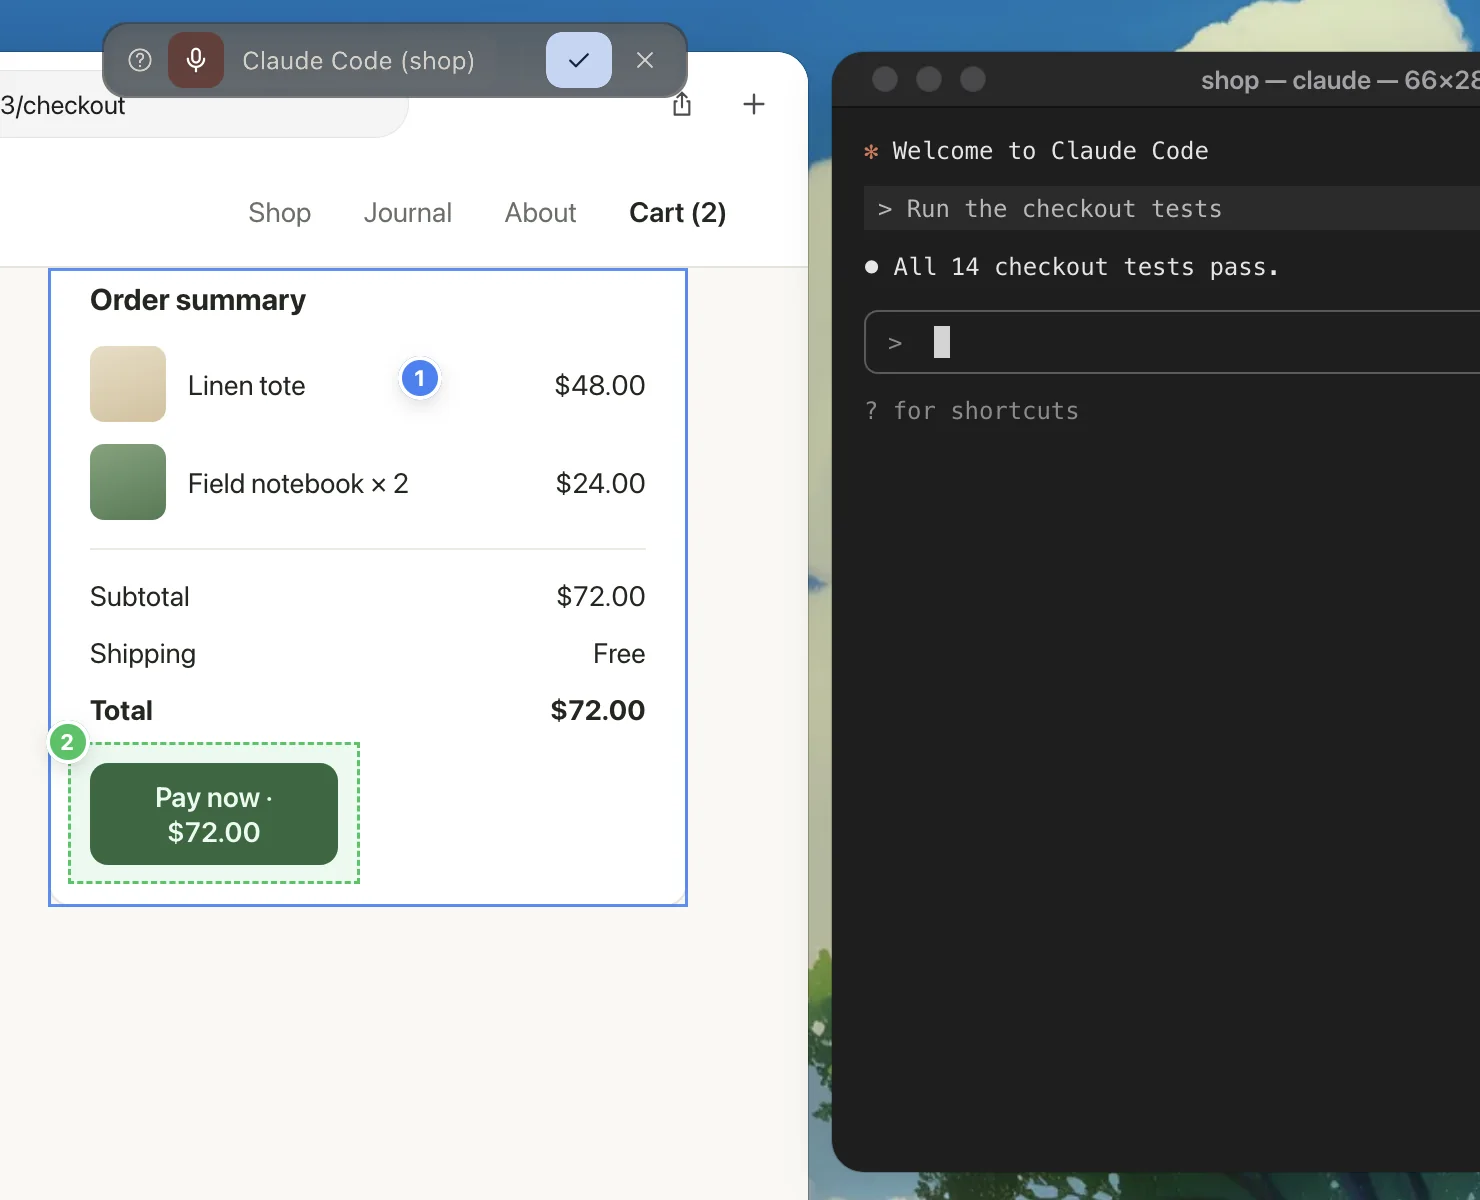
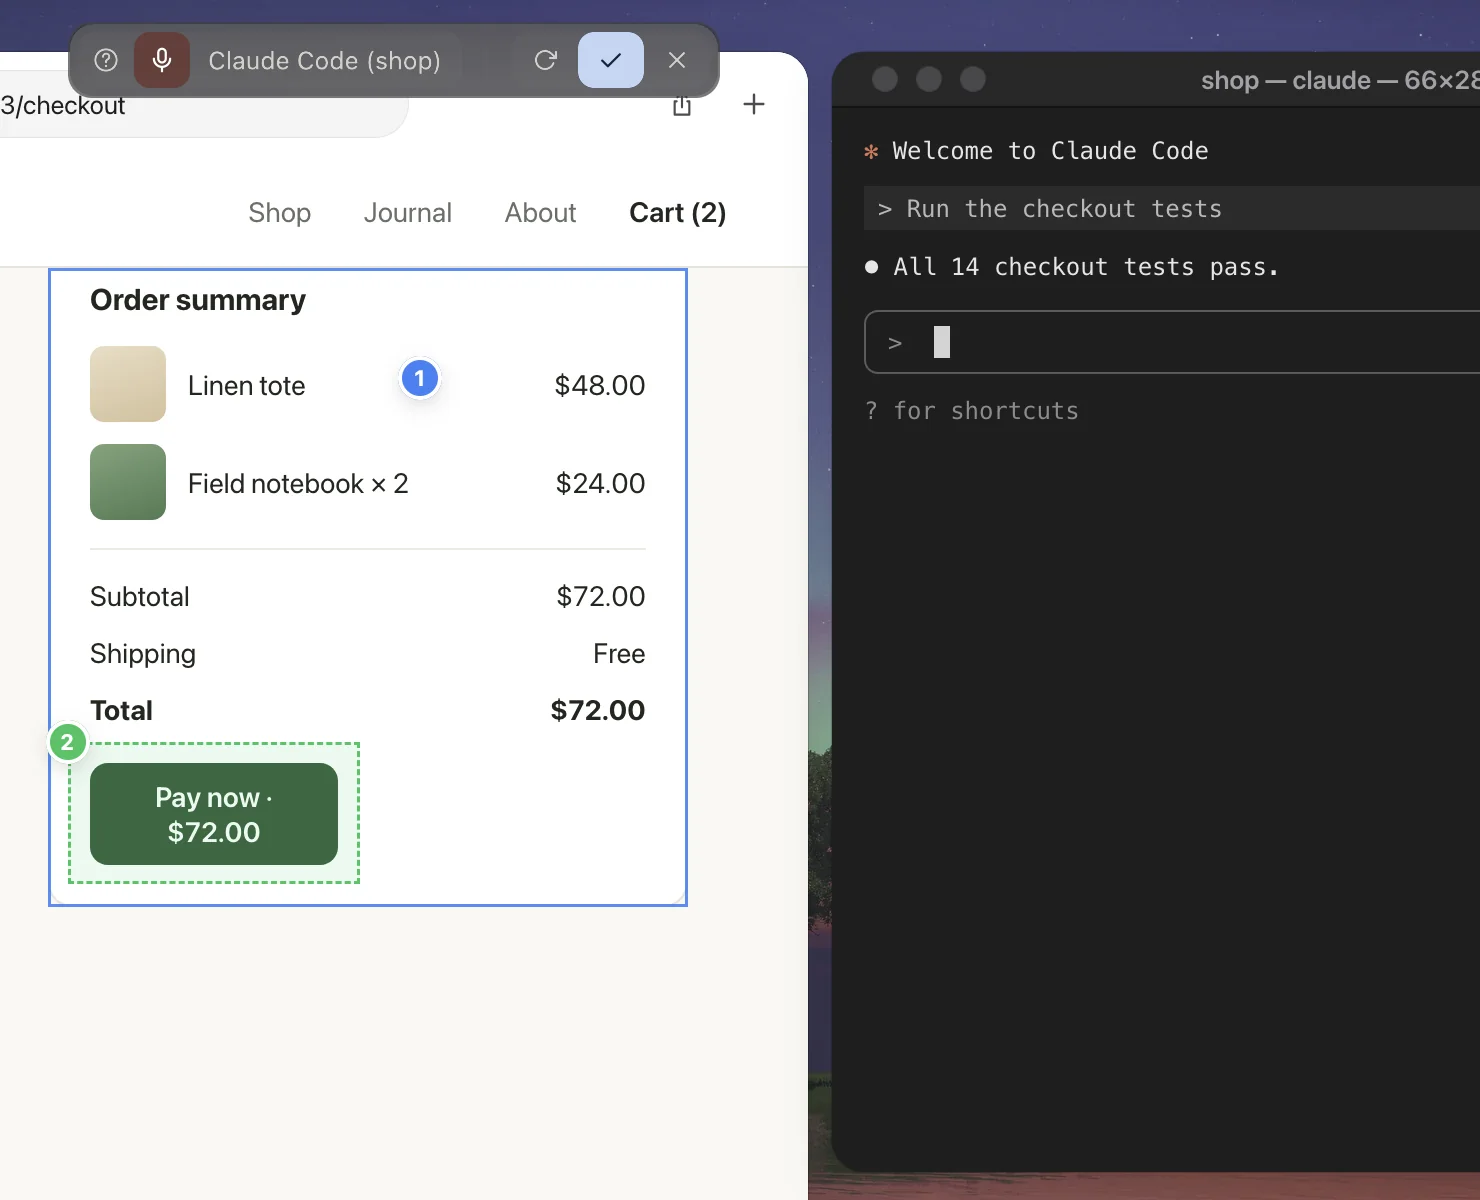
Regenerate Help's clips, the README picture and the share image
They show the pill with Start over (↻). The landing page's demo pill has
it too, and the demo's desktop is now the README's wallpaper (the islet
under an aurora): one wallpaper, docs/wallpaper.webp, which the README
picture's script uses too.

The pill is wider by the new button: the keys clip starts further left
(the pill's edge was cut off) and the tools clip is wider (its Send and
close buttons were). Over the darker sky the pill's top edge hardly
differs from the desktop, and the pill clip lost it: the pill is found
by its bottom and sides, and is as tall as it is.

Changed region(s): [[0.0, 0.0, 1.0, 1.0]]

diff --git a/docs/index.html b/docs/index.html
@@ -159,7 +159,7 @@ h1 { font-size: 30px; font-weight: 650; line-height: 1.2; letter-spacing: -0.025
   position: absolute;
   inset: 0;
   overflow: hidden;
-  background: #3d7fd0 url(wallpaper.webp) 50% 100% / cover;
+  background: #2e2a5c url(wallpaper.webp) 50% 50% / cover;
   font: 400 calc(13 * var(--u))/1.25 var(--sans);
   letter-spacing: -0.003em;
   color: #1d1d1f;
@@ -779,6 +779,7 @@ And this button [1] wraps.
               <span class="ap-mic"><i class="level"></i><svg viewBox="0 0 24 24"><rect x="9" y="3" width="6" height="11" rx="3"/><path d="M5.5 11a6.5 6.5 0 0 0 13 0M12 17.5V21"/></svg></span>
               <span class="ap-to">Claude Code (shop)</span>
               <span class="ap-tool"><svg viewBox="0 0 24 24"><path d="M3.5 16.5 16.5 3.5l4 4-13 13z"/><path d="M7.5 12.5l2 2M10.5 9.5l2 2M13.5 6.5l2 2"/></svg>Measure</span>
+              <span class="ap-icon"><svg viewBox="0 0 24 24"><path d="M20.8 5.6v4.8H16"/><path d="M18.8 14.4a7.2 7.2 0 1 1-1.7-7.49l3.7 3.49"/></svg></span>
               <span class="ap-send"><svg viewBox="0 0 24 24"><path d="M5 12.5l4.5 4.5L19 7.5"/></svg></span>
               <span class="ap-icon"><svg viewBox="0 0 24 24"><path d="M6.5 6.5l11 11M17.5 6.5l-11 11"/></svg></span>
             </div>

diff --git a/scripts/make-help.py b/scripts/make-help.py
@@ -138,8 +138,10 @@ RUNS = {
 # and "send" are the shortcut, as set. The first frame's are what happens as the clip starts over.
 # After the frames, anything else the window needs: `radius`, its corners'; `bare`, no outline.
 BASICS = (560, 36, 740, 600)
-# The pill's corners (`glass_panel` in the overlay's ui.rs).
+# The pill's corners (`glass_panel` in the overlay's ui.rs), and its height: its buttons, padding and
+# border (`toolbar_panel`).
 PILL_RADIUS = 12
+PILL_HEIGHT = 38
 CLIPS = {
     "basics": (BASICS, [
         {"image": "basics-0", "pointer": REST, "key": "open", "hold": 1800, "step": 0},
@@ -163,12 +165,12 @@ CLIPS = {
         {"image": "card-2", "pointer": REST, "hold": 1200},
         {"image": "card-3", "key": "⌘2", "hold": 2600},
     ]),
-    "tools": ((60, 36, 880, 520), [
+    "tools": ((60, 36, 918, 520), [
         {"image": "tools-0", "pointer": FIELD, "key": "measure", "hold": 1800},
         {"image": "tools-1", "path": FIELD_DRAG, "hold": 1900},
         {"image": "tools-2", "path": CIRCLE, "pointer": REST, "key": "draw", "hold": 2600},
     ]),
-    "keys": ((595, 36, 490, 480), [{"image": "keys-0", "hold": 0}]),
+    "keys": ((579, 36, 490, 480), [{"image": "keys-0", "hold": 0}]),
 }
 
 
@@ -222,11 +224,12 @@ def run(name, screen, replay, tmp):
 
 
 def pill_box(frame, desk):
-    """The pill on `frame` (pixels): where it differs from the desktop, near the top."""
+    """The pill on `frame` (pixels): where it differs from the desktop, near the top, as tall as it is
+    from its bottom (over a dark sky, its top edge hardly differs)."""
     top = (0, 0, frame.width, 400)
     changed = ImageChops.difference(frame.crop(top), desk.crop(top)).convert("L").point(lambda v: 255 if v > 24 else 0)
-    x0, y0, x1, y1 = changed.getbbox()
-    return x0 / 2, y0 / 2, (x1 - x0) / 2, (y1 - y0) / 2
+    x0, _, x1, y1 = changed.getbbox()
+    return x0 / 2, y1 / 2 - PILL_HEIGHT, (x1 - x0) / 2, PILL_HEIGHT
 
 
 def cut_corners(image, radius):

diff --git a/scripts/make-screenshot.py b/scripts/make-screenshot.py
@@ -3,7 +3,7 @@ checkout page, with all it does: the pill recording, pins on elements and an are
 its number, a pin's card typed in, a measurement and a sketch.
 
 The screen is the demo's desktop from docs/index.html (rendered with Firefox), Safari alone over
-readme-wallpaper.webp (beside this script); the overlay is
+its wallpaper; the overlay is
 target/debug/asides-overlay, run on it in a window at the top left of your screen for a few seconds,
 with a replay of the clicks and a capture (your terminal needs Screen Recording), dark whatever your
 Mac's appearance. Needs Pillow.
@@ -26,7 +26,6 @@ OUT = ROOT / "guide" / "overlay.png"
 FIREFOX = os.environ.get("FIREFOX", "/Applications/Firefox.app/Contents/MacOS/firefox")
 # The screen, the demo's 14-inch MacBook Pro, in points, drawn at 2×.
 WIDTH, HEIGHT = 1512, 945
-WALLPAPER = pathlib.Path(__file__).resolve().parent / "readme-wallpaper.webp"
 # Safari, alone, moves from where the demo puts it (24, 62) to the middle, below the pill.
 SAFARI = (286, 104)
 DX, DY = SAFARI[0] - 24, SAFARI[1] - 62
@@ -50,7 +49,6 @@ html, body {{ margin: 0; overflow: hidden; }}
 /* The demo scales with its width: twice the points is a 2× screen. */
 .display {{ width: {WIDTH * 2}px; border-radius: 0; }}
 .apill, .ruler, .outline, .marker, .pointer {{ display: none !important; }}
-.desk {{ background: #2e2a5c url({WALLPAPER.as_uri()}) 50% 50% / cover; }}
 .safari {{ left: calc({SAFARI[0]} * var(--u)); top: calc({SAFARI[1]} * var(--u)); height: calc(700 * var(--u)); }}
 </style></head><body><div class="display">{desk}</div></body></html>"""
 
